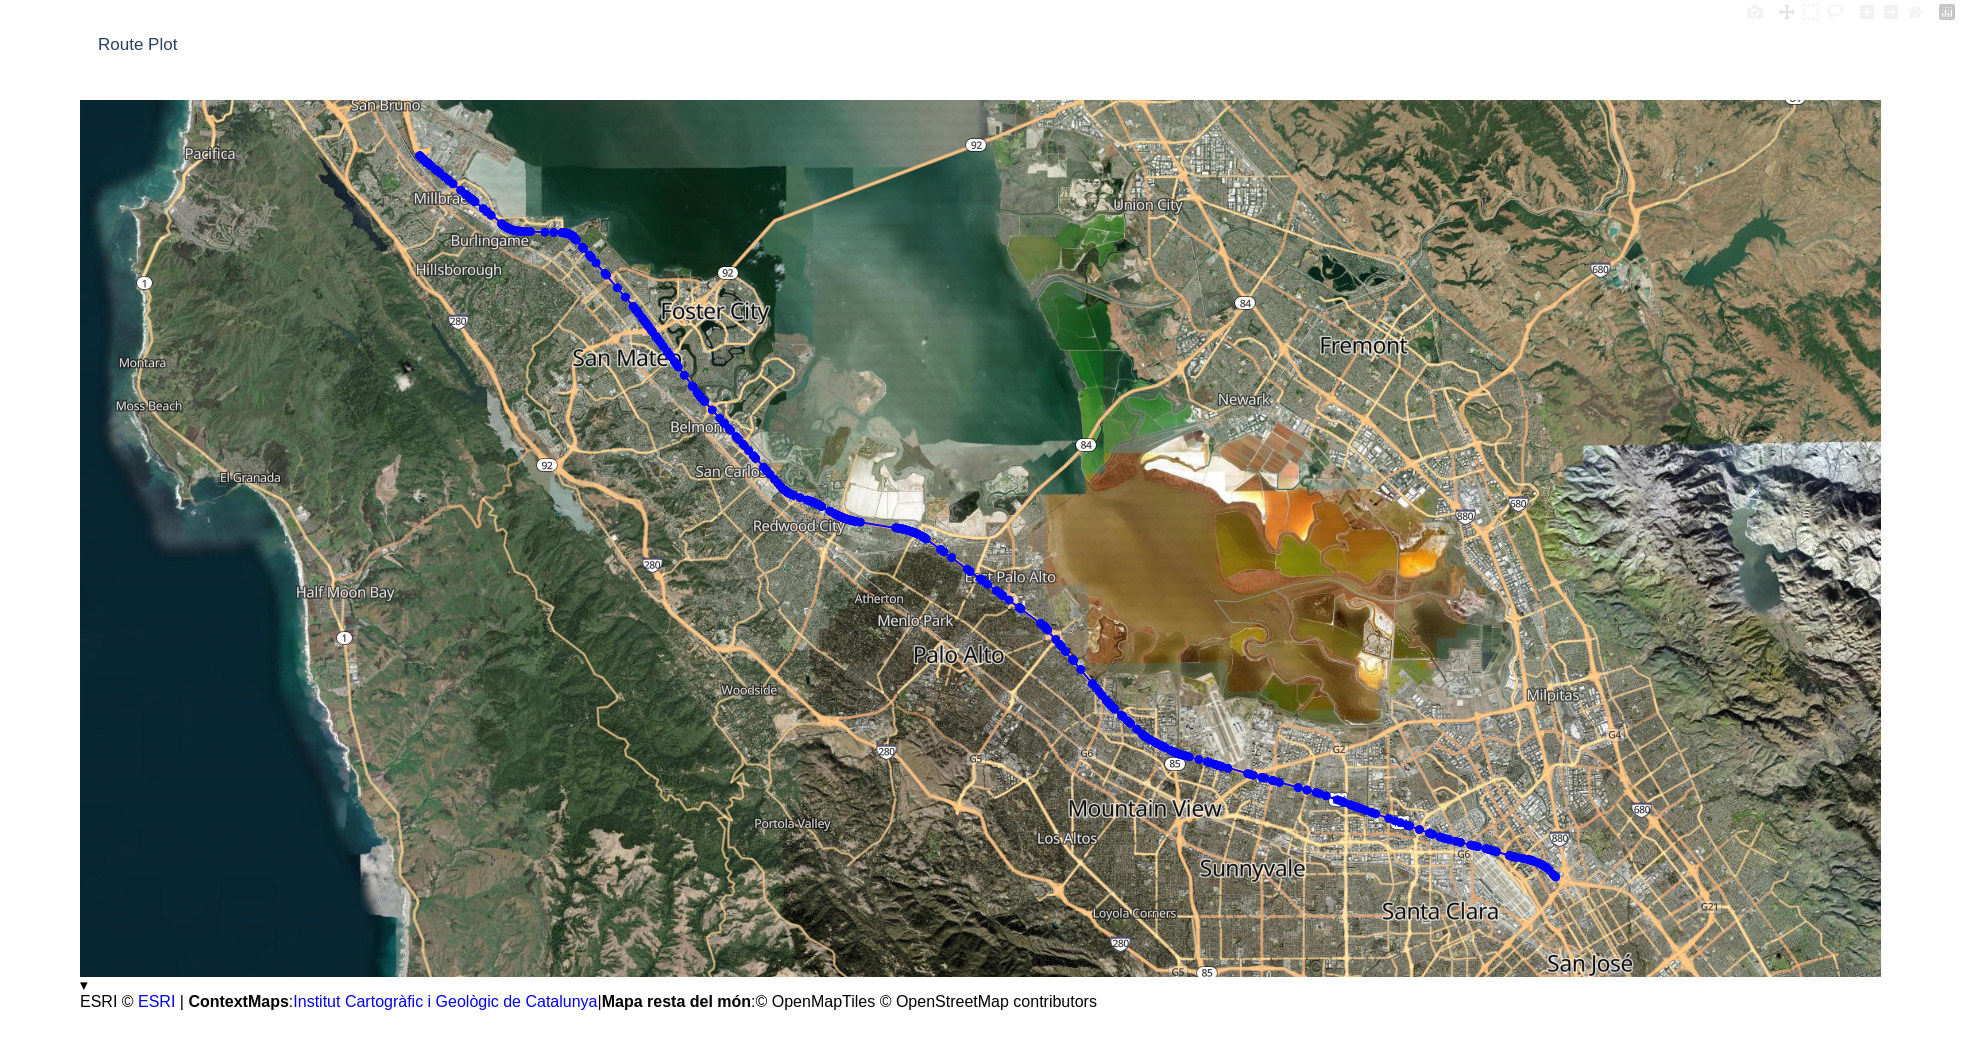
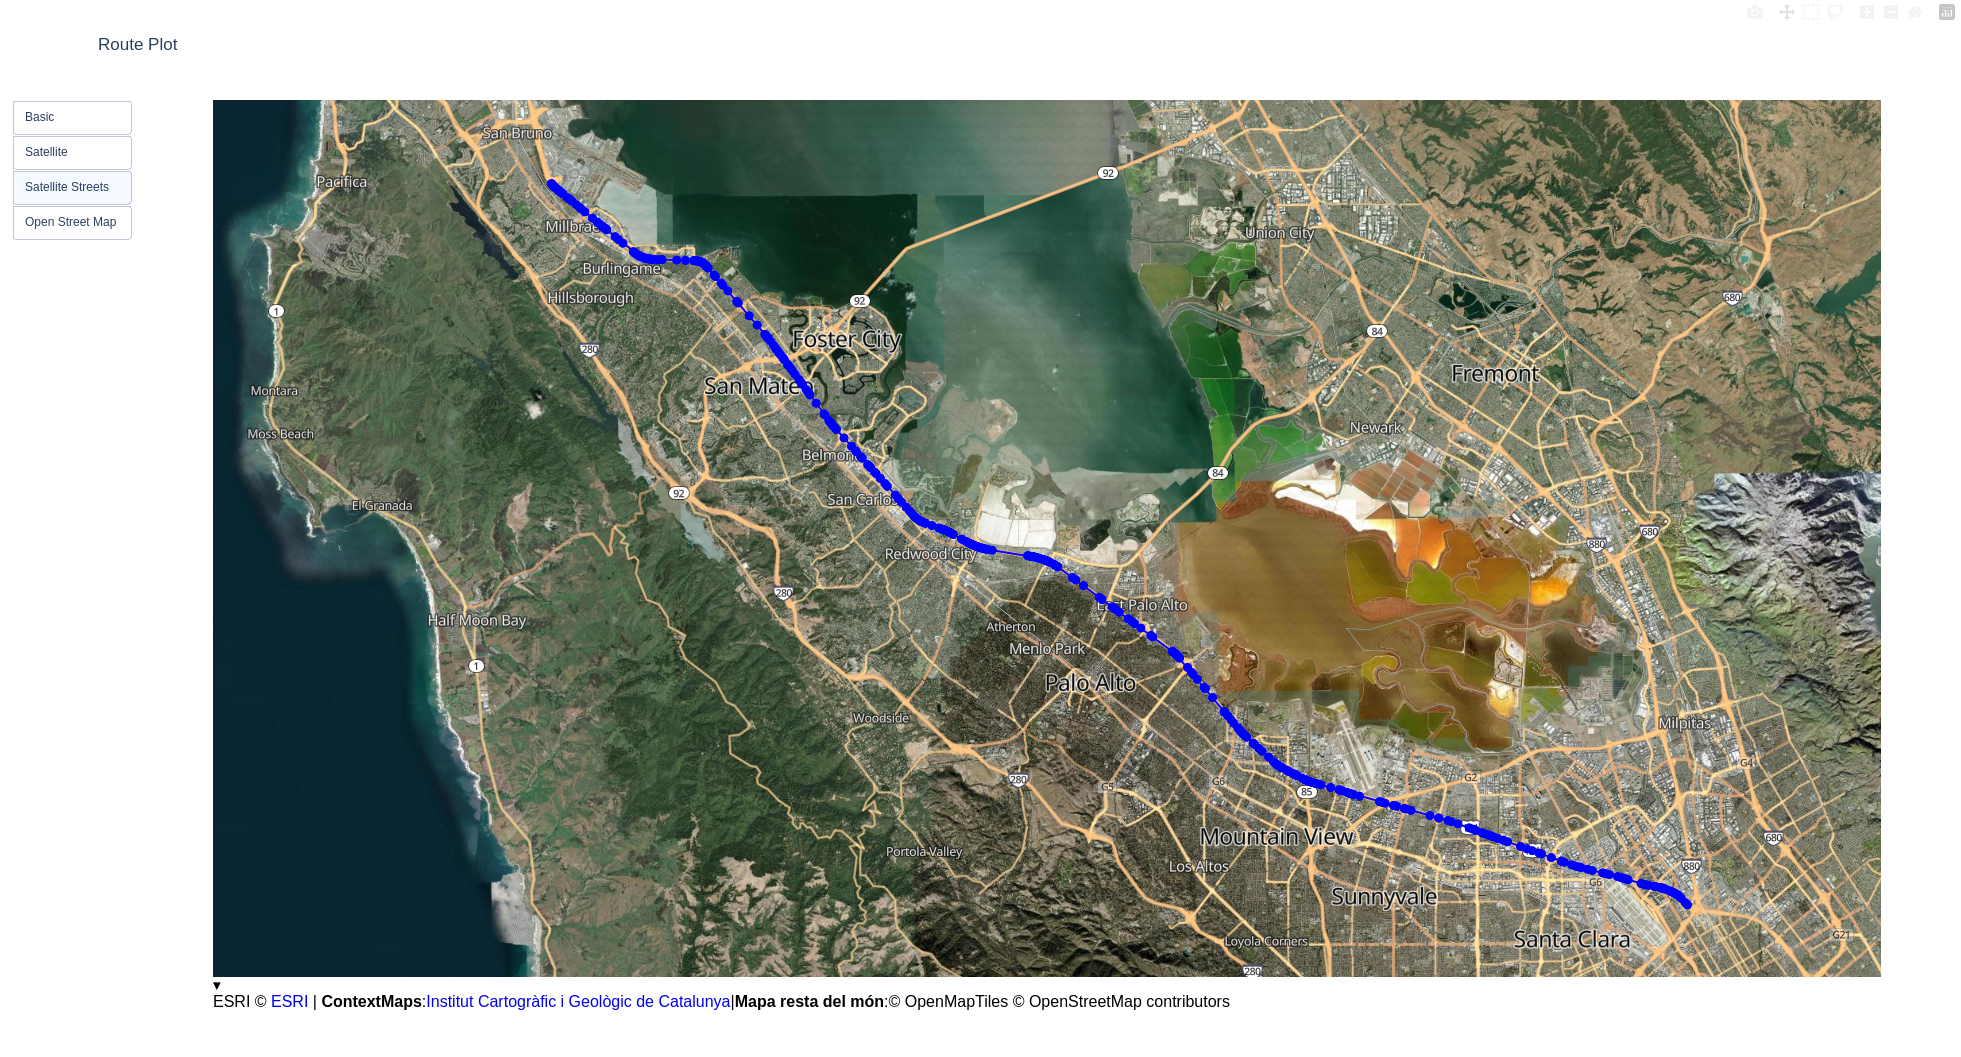
feat: add button to toggle map_style interactively

diff --git a/route_planner_interactive_map/route_planner.py b/route_planner_interactive_map/route_planner.py
@@ -29,8 +29,20 @@ class RoutePlotter:
                           map= dict(
                               center=dict(lat=center.lat, lon=center.lon),
                               zoom=zoom,
-                              style='satellite-streets' # 'basic'/`carto-voyager`, 'open-street-map', 'satellite', 'satellite-streets' 
-                          ))
+                              style='basic' # 'basic'/`carto-voyager`, 'open-street-map', 'satellite', 'satellite-streets' 
+                            ),
+                          updatemenus=[
+                            dict(
+                                type='buttons',
+                                buttons=[
+                                    dict(label='Basic', method='relayout', args=['map.style', 'basic']),
+                                    dict(label='Satellite', method='relayout', args=['map.style', 'satellite']),
+                                    dict(label='Satellite Streets', method='relayout', args=['map.style', 'satellite-streets']),
+                                    dict(label='Open Street Map', method='relayout', args=['map.style', 'open-street-map'])
+                                ]
+                            )
+                          ]
+                        )
         fig.show()
     
     def get_center_zoom(self, waypoints):
